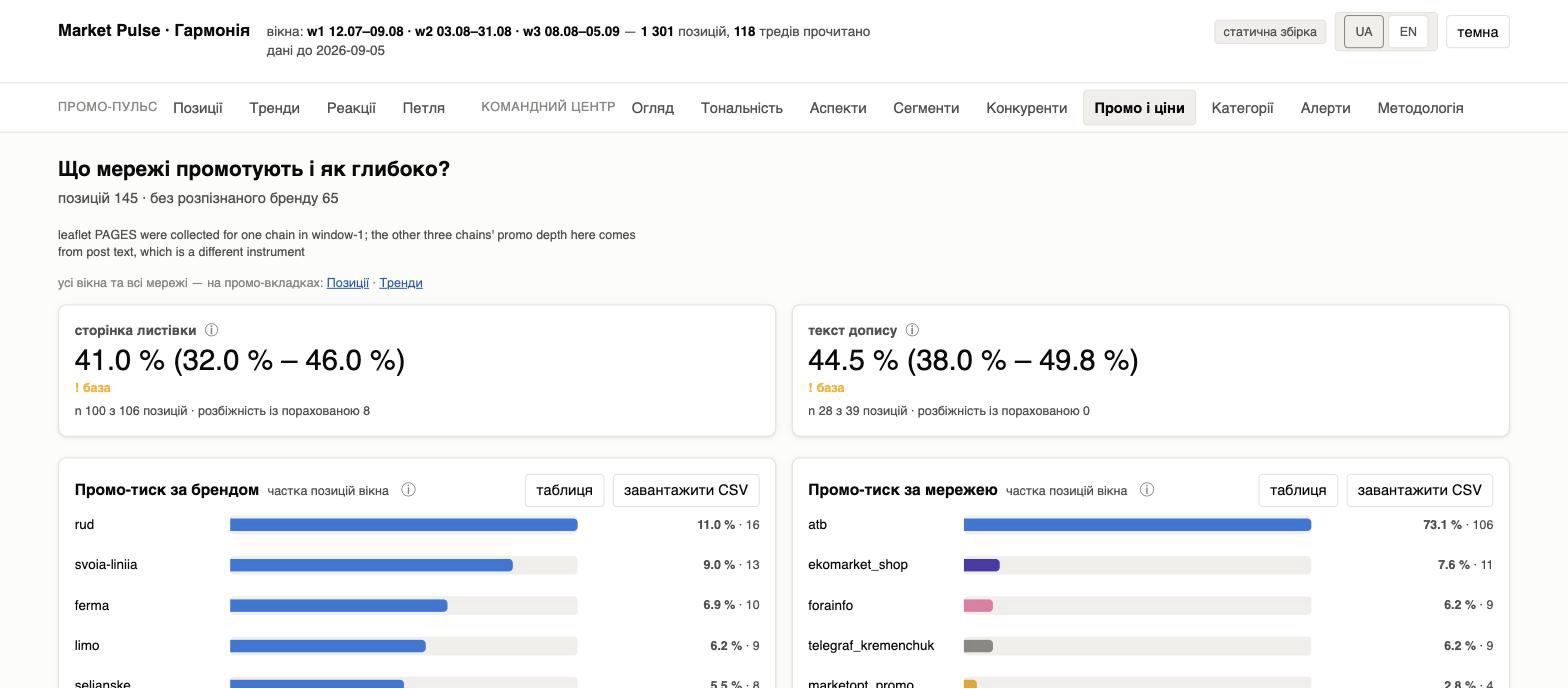
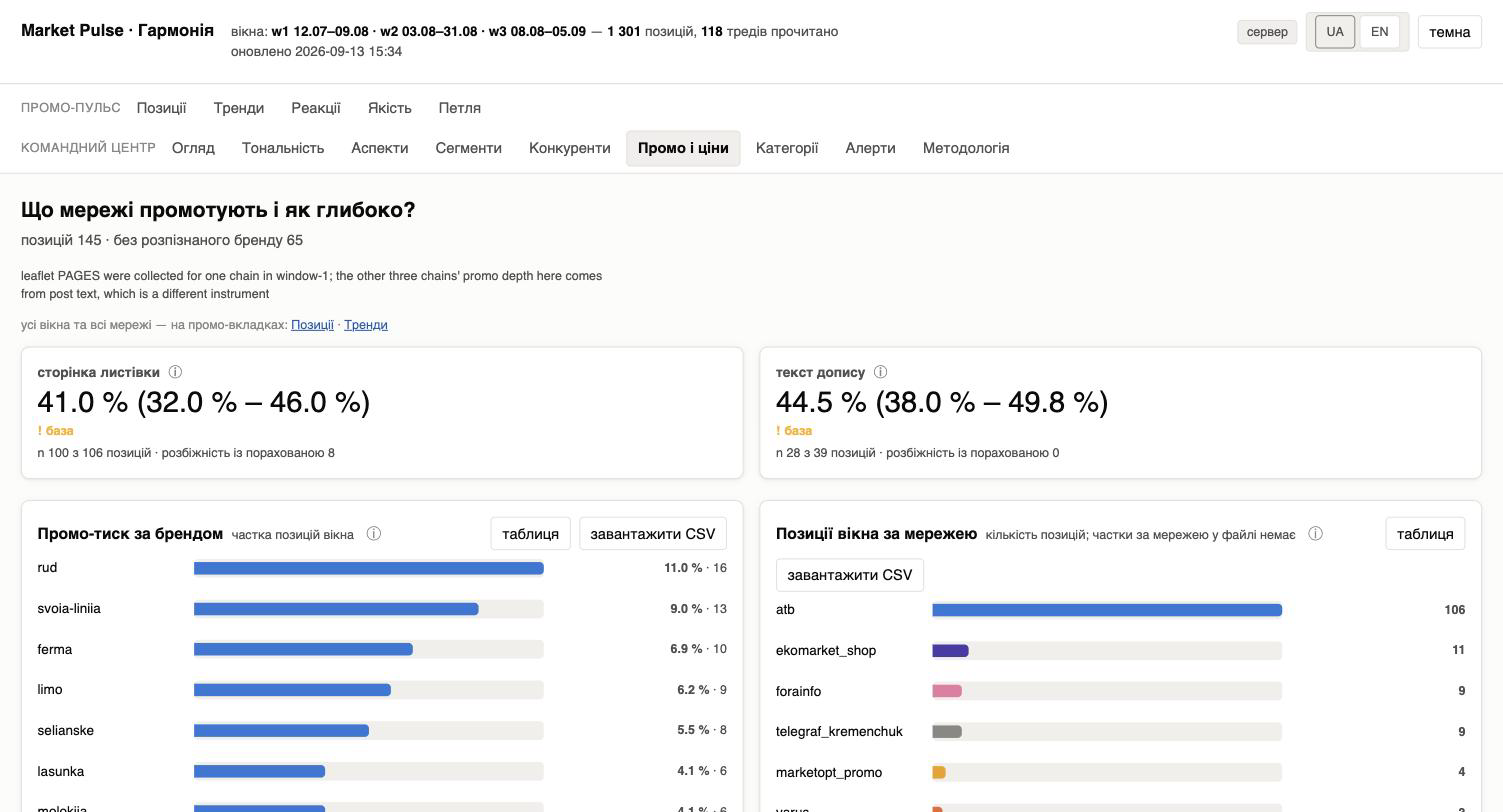
front(front-2-close): two figures the screen printed that no file holds
Closing the item the batched run left standing (ruling (ccc) 4). Its own checks
re-run here; these two defects are what my read-only review of `1a3e0e5` found
and could not refute, both verified on my own screen before the fix and after.

T5 — «73.1 %» was divided in the browser. `promo_pressure.by_chain` carries
`position_rows` and no share of any kind (the metric's only `share` is keyed by
BRAND), so the chain exhibit was printing 106 ÷ 145 under a provenance line that
named a block with no such field in it — the reader could open the path and find
nothing to check the bar against. The exhibit is now the count the file holds:
«Позиції вікна за мережею», atb 106 · ekomarket_shop 11 · forainfo 9, its own ⓘ
saying why there is no percentage, and one reader — `cc.ts :: pressureByChain`.
`Bars` grows one optional `figure` prop so an exhibit whose export carries a
count and no share does not have to invent a percent; every other caller keeps
the default and is untouched.

T8 — «рішення [object Object]». `model.verdict.decision` is a ten-key block, so
`String(...)` on it printed the JS stringification where the model's verdict
belongs. The line now names the arm the verdict SELECTED: «крок 4.5h2 пласт
ablation · рішення without-plast · пройдено 3 з 5 · тестсет v4».

Two comments of that commit are corrected to what the code does, not what it
meant to do: the second population reaches the screen beside NSR and in the ⓘ of
[…]

diff --git a/frontend/src/tabs/CommandCentre.tsx b/frontend/src/tabs/CommandCentre.tsx
@@ -10,9 +10,11 @@
  *   by an arrow nobody could justify: window-1 is the base, and the comparison arrives with the
  *   second paid window.
  * * **Two populations, and the FILE says which is the headline.** «bought» is everything the
- *   session paid for, «payable» the rows that carry words — 1 361 apart. Every sampled metric
- *   shows its headline reading big and the other beside it, because the difference between them is
- *   the first finding of the window.
+ *   session paid for, «payable» the rows that carry words — 1 361 apart. {@link headline} reads
+ *   the file's `headline_sample` and no tab picks one for itself. NSR prints the second reading
+ *   beside the first, because that difference is the window's first finding; the other sampled
+ *   blocks name the population in their ⓘ and print one reading — the gap is named in
+ *   `docs/plans/ship-1.PROGRESS.md`, not papered over here.
  * * **A reading this window cannot carry is a SENTENCE, never an empty frame** (§10): T6 and T7 are
  *   the file's own `not_computable` entries with their reason and what unlocks them, and a cut that
  *   exports counts but not rows says «rows not exported» where the drill-down would be.
@@ -31,9 +33,11 @@ import {
   coverage,
   cut,
   headline,
+  modelVerdict,
   notComputable,
   negativeShare,
   nsr,
+  pressureByChain,
   promoDepth,
   promoPressure,
   samplesOf,
@@ -90,10 +94,18 @@ function Bars({
   rows,
   colour,
   label,
+  figure = (row) => (
+    <>
+      <b>{percent(row.value)}</b> · {count('uk', row.count)}
+    </>
+  ),
 }: {
   rows: Share[]
   colour: (key: string) => string
   label: (key: string) => string
+  /** What is written at the end of the row. The default reads the row as a SHARE; an exhibit whose
+   *  export carries a count and no share passes its own, so no percent is invented for it. */
+  figure?: (row: Share) => React.ReactNode
 }): React.JSX.Element {
   const ceiling = Math.max(...rows.map((row) => row.value), 0)
   return (
@@ -110,9 +122,7 @@ function Bars({
               }}
             />
           </span>
-          <span className="strip-values">
-            <b>{percent(row.value)}</b> · {count('uk', row.count)}
-          </span>
+          <span className="strip-values">{figure(row)}</span>
         </div>
       ))}
     </div>
@@ -652,12 +662,7 @@ export function PromoAndPrices(): React.JSX.Element {
   const depth = promoDepth(front)
   const pressure = promoPressure(front)
   const gap = notComputable(front, 'leaflet_depth_for_silpo_varus_marketopt')
-  const chains = shares(
-    Object.fromEntries(
-      Object.entries(pressure.by_chain).map(([chain, row]) => [chain, row.position_rows / pressure.position_rows]),
-    ),
-    Object.fromEntries(Object.entries(pressure.by_chain).map(([chain, row]) => [chain, row.position_rows])),
-  )
+  const chains = pressureByChain(front)
   const byBrand = shares(pressure.share, pressure.by_brand)
 
   return (
@@ -719,13 +724,18 @@ export function PromoAndPrices(): React.JSX.Element {
           title={t('cc.t5.chains.title')}
           subtitle={t('cc.t5.chains.subtitle')}
           provenance={`${FRONT_FILE} :: ${ccPath('metrics', 'promo_pressure', 'by_chain')}`}
-          info={[pressure.sample.reading]}
+          info={[pressure.sample.reading, t('cc.t5.chains.info')]}
           table={{
-            head: [t('cc.col.chain'), t('cc.col.share'), t('cc.col.rows')],
-            rows: chains.map((row) => [row.key, ratio(row.value), row.count]),
+            head: [t('cc.col.chain'), t('cc.col.rows')],
+            rows: chains.map((row) => [row.key, row.count]),
           }}
         >
-          <Bars rows={chains} colour={(key) => seriesColour(key)} label={(key) => key} />
+          <Bars
+            rows={chains}
+            colour={(key) => seriesColour(key)}
+            label={(key) => key}
+            figure={(row) => <b>{count(lang, row.count)}</b>}
+          />
         </ChartCard>
       </div>
 
@@ -811,7 +821,6 @@ export function Method(): React.JSX.Element {
   const { front, lang, t } = useApp()
   const block = centre(front)
   const window = ccWindow(front)
-  const verdict = front.model.verdict as Record<string, unknown>
   const limits = Object.entries(block.not_computable)
 
   return (
@@ -858,13 +867,7 @@ export function Method(): React.JSX.Element {
       <section className="block">
         <h2>{t('cc.t8.model')}</h2>
         <p className="context">
-          {t('cc.t8.model.line', {
-            step: String(verdict['step'] ?? ''),
-            decision: String(verdict['decision'] ?? ''),
-            passed: String(verdict['passed'] ?? ''),
-            of: String(verdict['of'] ?? ''),
-            testset: String(verdict['testset_version'] ?? ''),
-          })}
+          {t('cc.t8.model.line', modelVerdict(front))}
         </p>
         <p className="muted">
           <code>{front.model.from}</code>

diff --git a/frontend/test/adapters.test.ts b/frontend/test/adapters.test.ts
@@ -36,7 +36,8 @@ import {
   tableRows, telegramLink, threads, volumeOf, weeks, windows,
 } from '../src/data/promo.ts'
 import {
-  coverage, headline, negativeShare, nsr, promoDepth, samplesOf, sov, volume,
+  coverage, headline, modelVerdict, negativeShare, nsr, pressureByChain, promoDepth, samplesOf,
+  sov, volume,
 } from '../src/data/cc.ts'
 import type {
   Bar, FrontExport, NegativeShareReading, NsrReading, Position, PromoExport, SovReading,
@@ -545,5 +546,49 @@ describe('the command centre (front-2)', () => {
     const tab = readFileSync(`${root}frontend/src/tabs/CommandCentre.tsx`, 'utf8')
     for (const call of ['volume(front)', 'nsr(front)', 'negativeShare(front)', 'sov(front)',
                         'promoDepth(front)', 'coverage(front)']) expect(tab).toContain(call)
+  })
+
+  /** s59: the chain exhibit printed «73.1 %» — 106 ÷ 145 divided in the browser — under a
+   *  provenance line naming a block that carries no share at all. */
+  it('T5’s chain exhibit prints the count the file holds, and no share is divided here', () => {
+    const byChain = field('command_center.metrics.promo_pressure.by_chain') as Record<string, unknown>
+    const rows = pressureByChain(front)
+    expect(rows.length).toBe(Object.keys(byChain).length)
+
+    for (const row of rows) {
+      const path = `command_center.metrics.promo_pressure.by_chain.${row.key}`
+      expect(row.value).toBe(field(`${path}.position_rows`))
+      expect(row.count).toBe(row.value)
+      // nothing under the named block could have backed a share
+      expect(field(`${path}.share`)).toBeUndefined()
+    }
+    // the only `share` in the metric is keyed by BRAND, so no chain has one to read
+    const brandShare = field('command_center.metrics.promo_pressure.share') as Record<string, number>
+    for (const row of rows) expect(brandShare[row.key]).toBeUndefined()
+
+    // the division is gone from the tab, and the exhibit reads the adapter
+    const tab = readFileSync(`${root}frontend/src/tabs/CommandCentre.tsx`, 'utf8')
+    expect(tab).not.toContain('/ pressure.position_rows')
+    expect(tab).toContain('pressureByChain(front)')
+  })
+
+  /** s59: `decision` is a ten-key block, so `String(...)` printed «рішення [object Object]» on T8. */
+  it('T8’s model line names the arm the verdict selected, never the block’s stringification', () => {
+    const line = modelVerdict(front)
+
+    expect(line.decision).toBe(field('model.verdict.decision.selected'))
+    expect(line.decision).not.toBe('[object Object]')
+    expect(line.decision.length).toBeGreaterThan(0)
+    // the defect is reachable, not hypothetical: the field the line used to print IS an object
+    expect(typeof field('model.verdict.decision')).toBe('object')
+    expect(String(field('model.verdict.decision'))).toBe('[object Object]')
+
+    expect(line.step).toBe(field('model.verdict.step'))
+    expect(line.passed).toBe(String(field('model.verdict.passed')))
+    expect(line.of).toBe(String(field('model.verdict.of')))
+    expect(line.testset).toBe(field('model.verdict.testset_version'))
+
+    const tab = readFileSync(`${root}frontend/src/tabs/CommandCentre.tsx`, 'utf8')
+    expect(tab).toContain("t('cc.t8.model.line', modelVerdict(front))")
   })
 })

diff --git a/frontend/src/data/cc.ts b/frontend/src/data/cc.ts
@@ -10,7 +10,10 @@
  *   ([[a_published_number_has_one_reader]]) — and the other reading stays on the screen beside it,
  *   because the two differ by 1 361 word-less rows and the difference is the finding.
  * * **A missing field is a NAMED refusal**, never a blank and never a zero: `must` throws
- *   `SourceMissing(file, field)` and the shell renders the red panel for that tab's band.
+ *   `SourceMissing(file, field)`. A field the BOOT reads is caught by the shell and drawn as §5's
+ *   red panel; a field a tab reads during its own render has no boundary above it today, so the
+ *   throw unmounts the root instead — named as a debt in `docs/plans/ship-1.PROGRESS.md`, because
+ *   an error boundary is not a thing this phase asked for.
  */
 
 import type {
@@ -128,4 +131,32 @@ export function shares(share: Record<string, number>, counts: Record<string, num
   return Object.entries(share ?? {})
     .map(([key, value]) => ({ key, value, count: counts?.[key] ?? 0 }))
     .sort((left, right) => right.value - left.value || left.key.localeCompare(right.key))
+}
+
+/**
+ * Promo pressure per chain — the export's own `position_rows`, and nothing divided here.
+ *
+ * `promo_pressure.share` is keyed by BRAND; `by_chain` carries counts and no share of any kind, so
+ * a per-chain share would be this app's own arithmetic wearing a field's provenance line. The bar
+ * is therefore the count the file holds ([[the_app_computes_no_figure]]).
+ */
+export function pressureByChain(front: FrontExport): Share[] {
+  const rows = Object.fromEntries(
+    Object.entries(promoPressure(front).by_chain).map(([chain, row]) => [chain, row.position_rows]),
+  )
+  return shares(rows, rows)
+}
+
+/** The model's verdict as the four strings T8 prints. `decision` is a BLOCK in the record, so the
+ *  line names the arm it SELECTED — stringifying the block itself printed «[object Object]». */
+export function modelVerdict(front: FrontExport): Record<'step' | 'decision' | 'passed' | 'of' | 'testset', string> {
+  const verdict = front.model.verdict
+  const decision = (verdict['decision'] ?? {}) as Record<string, unknown>
+  return {
+    step: String(verdict['step'] ?? ''),
+    decision: String(decision['selected'] ?? ''),
+    passed: String(verdict['passed'] ?? ''),
+    of: String(verdict['of'] ?? ''),
+    testset: String(verdict['testset_version'] ?? ''),
+  }
 }
